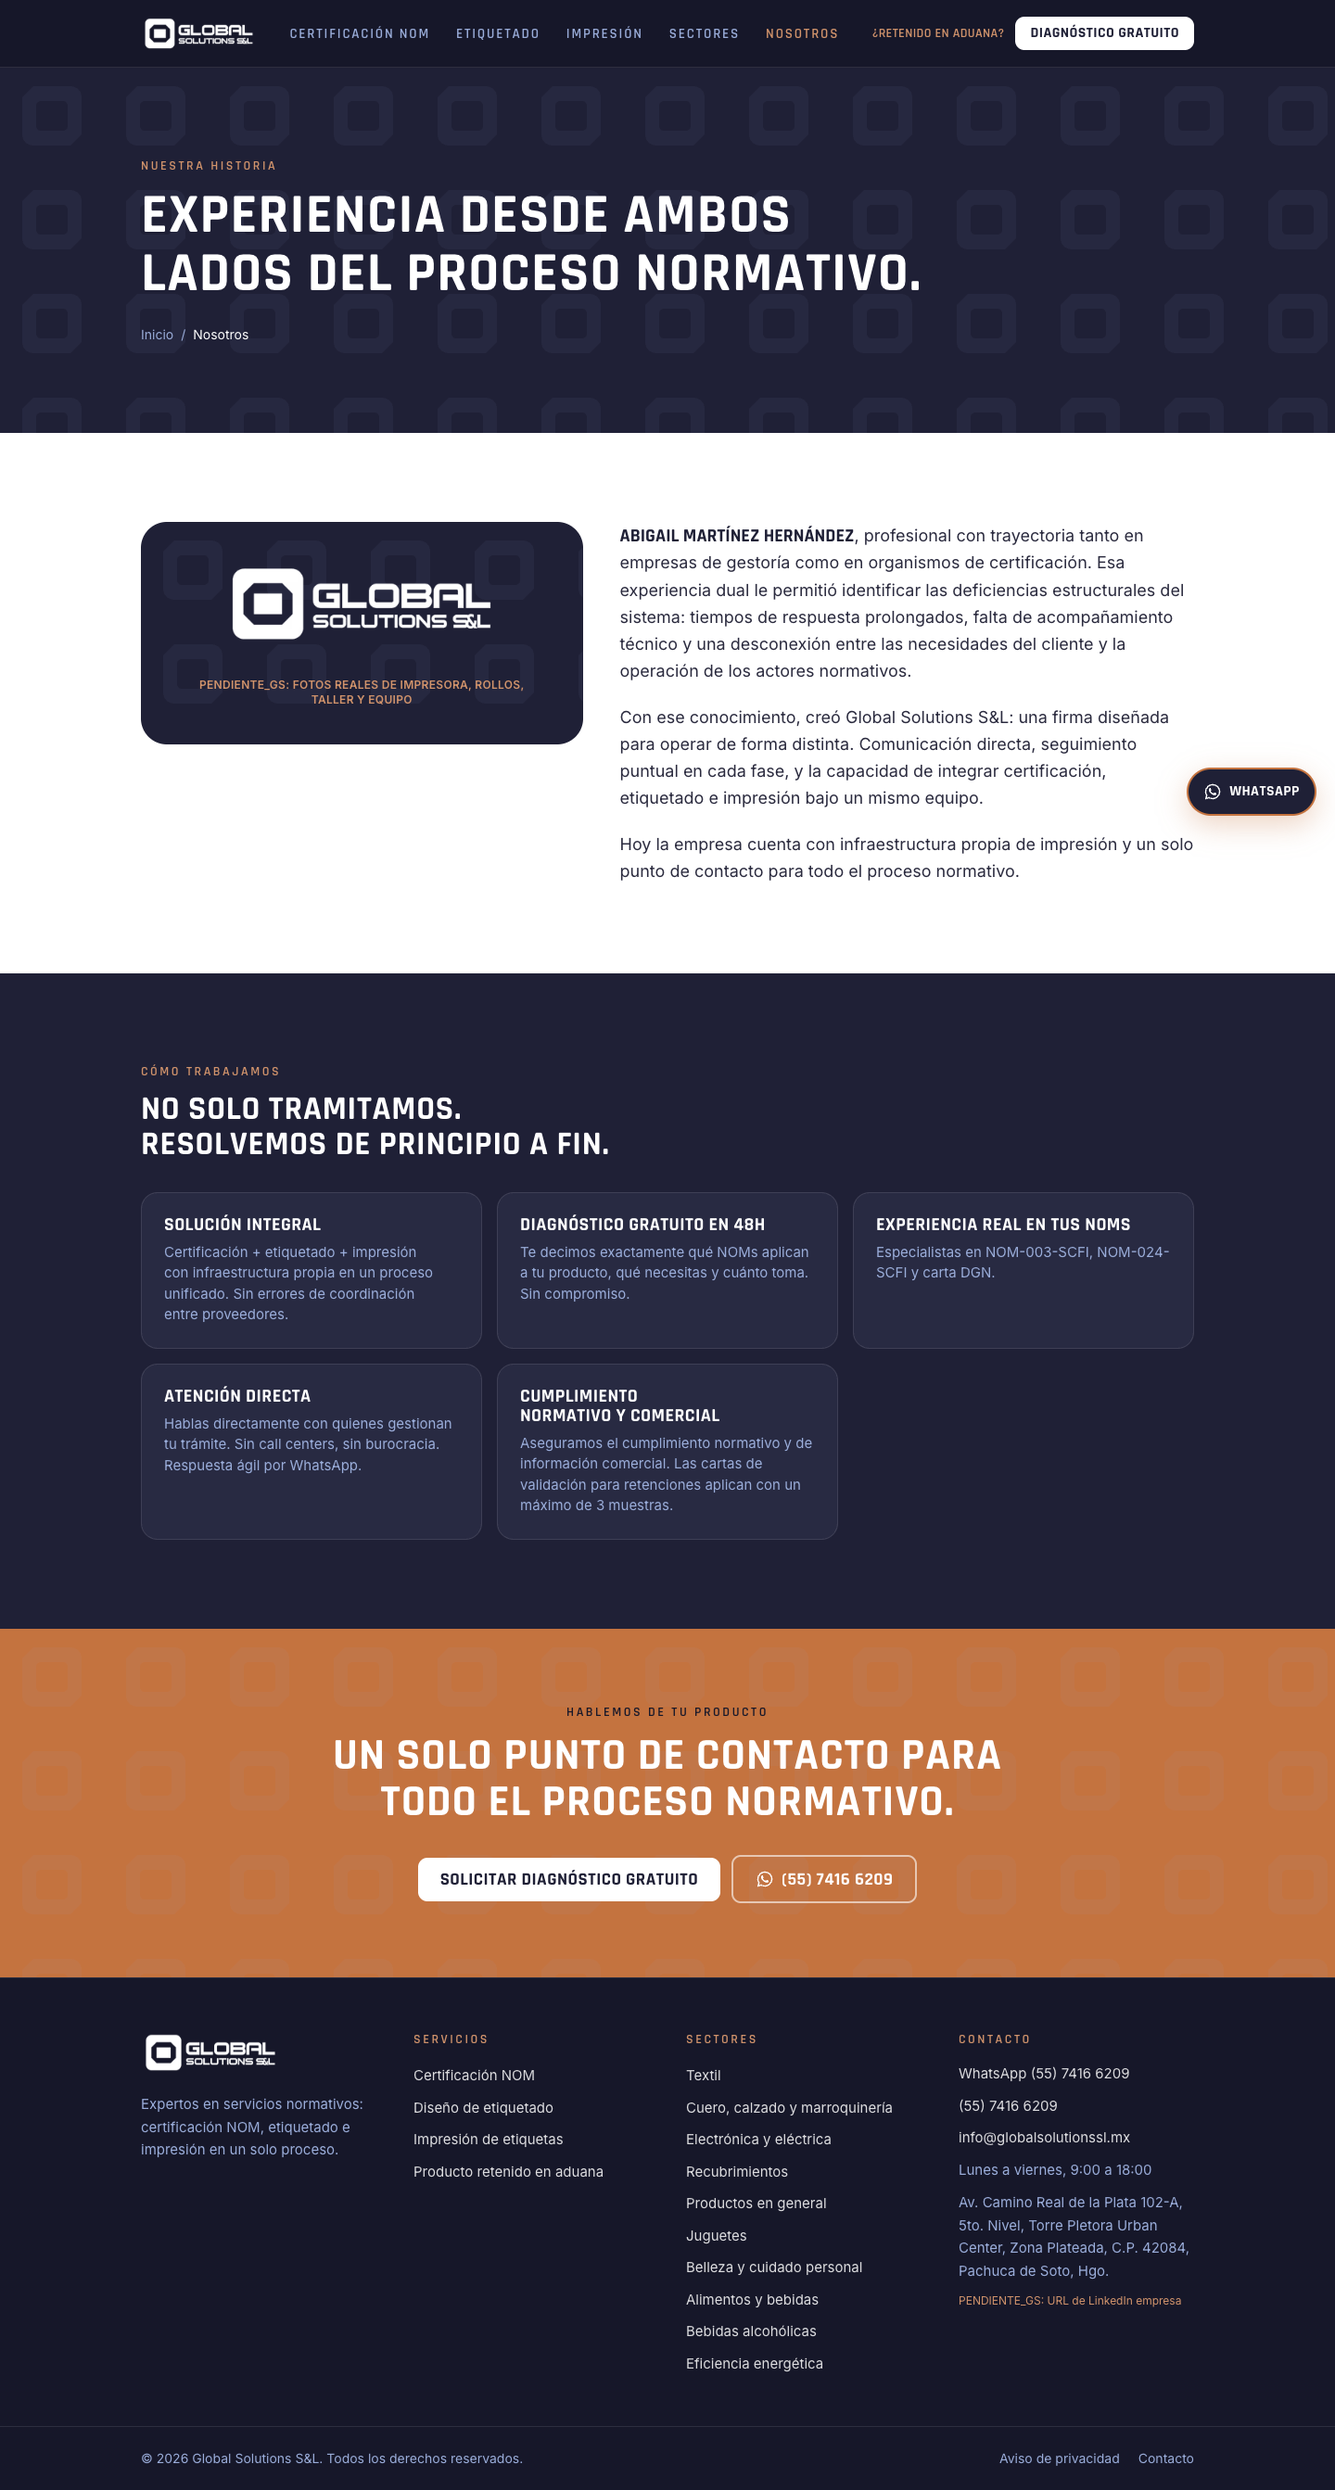
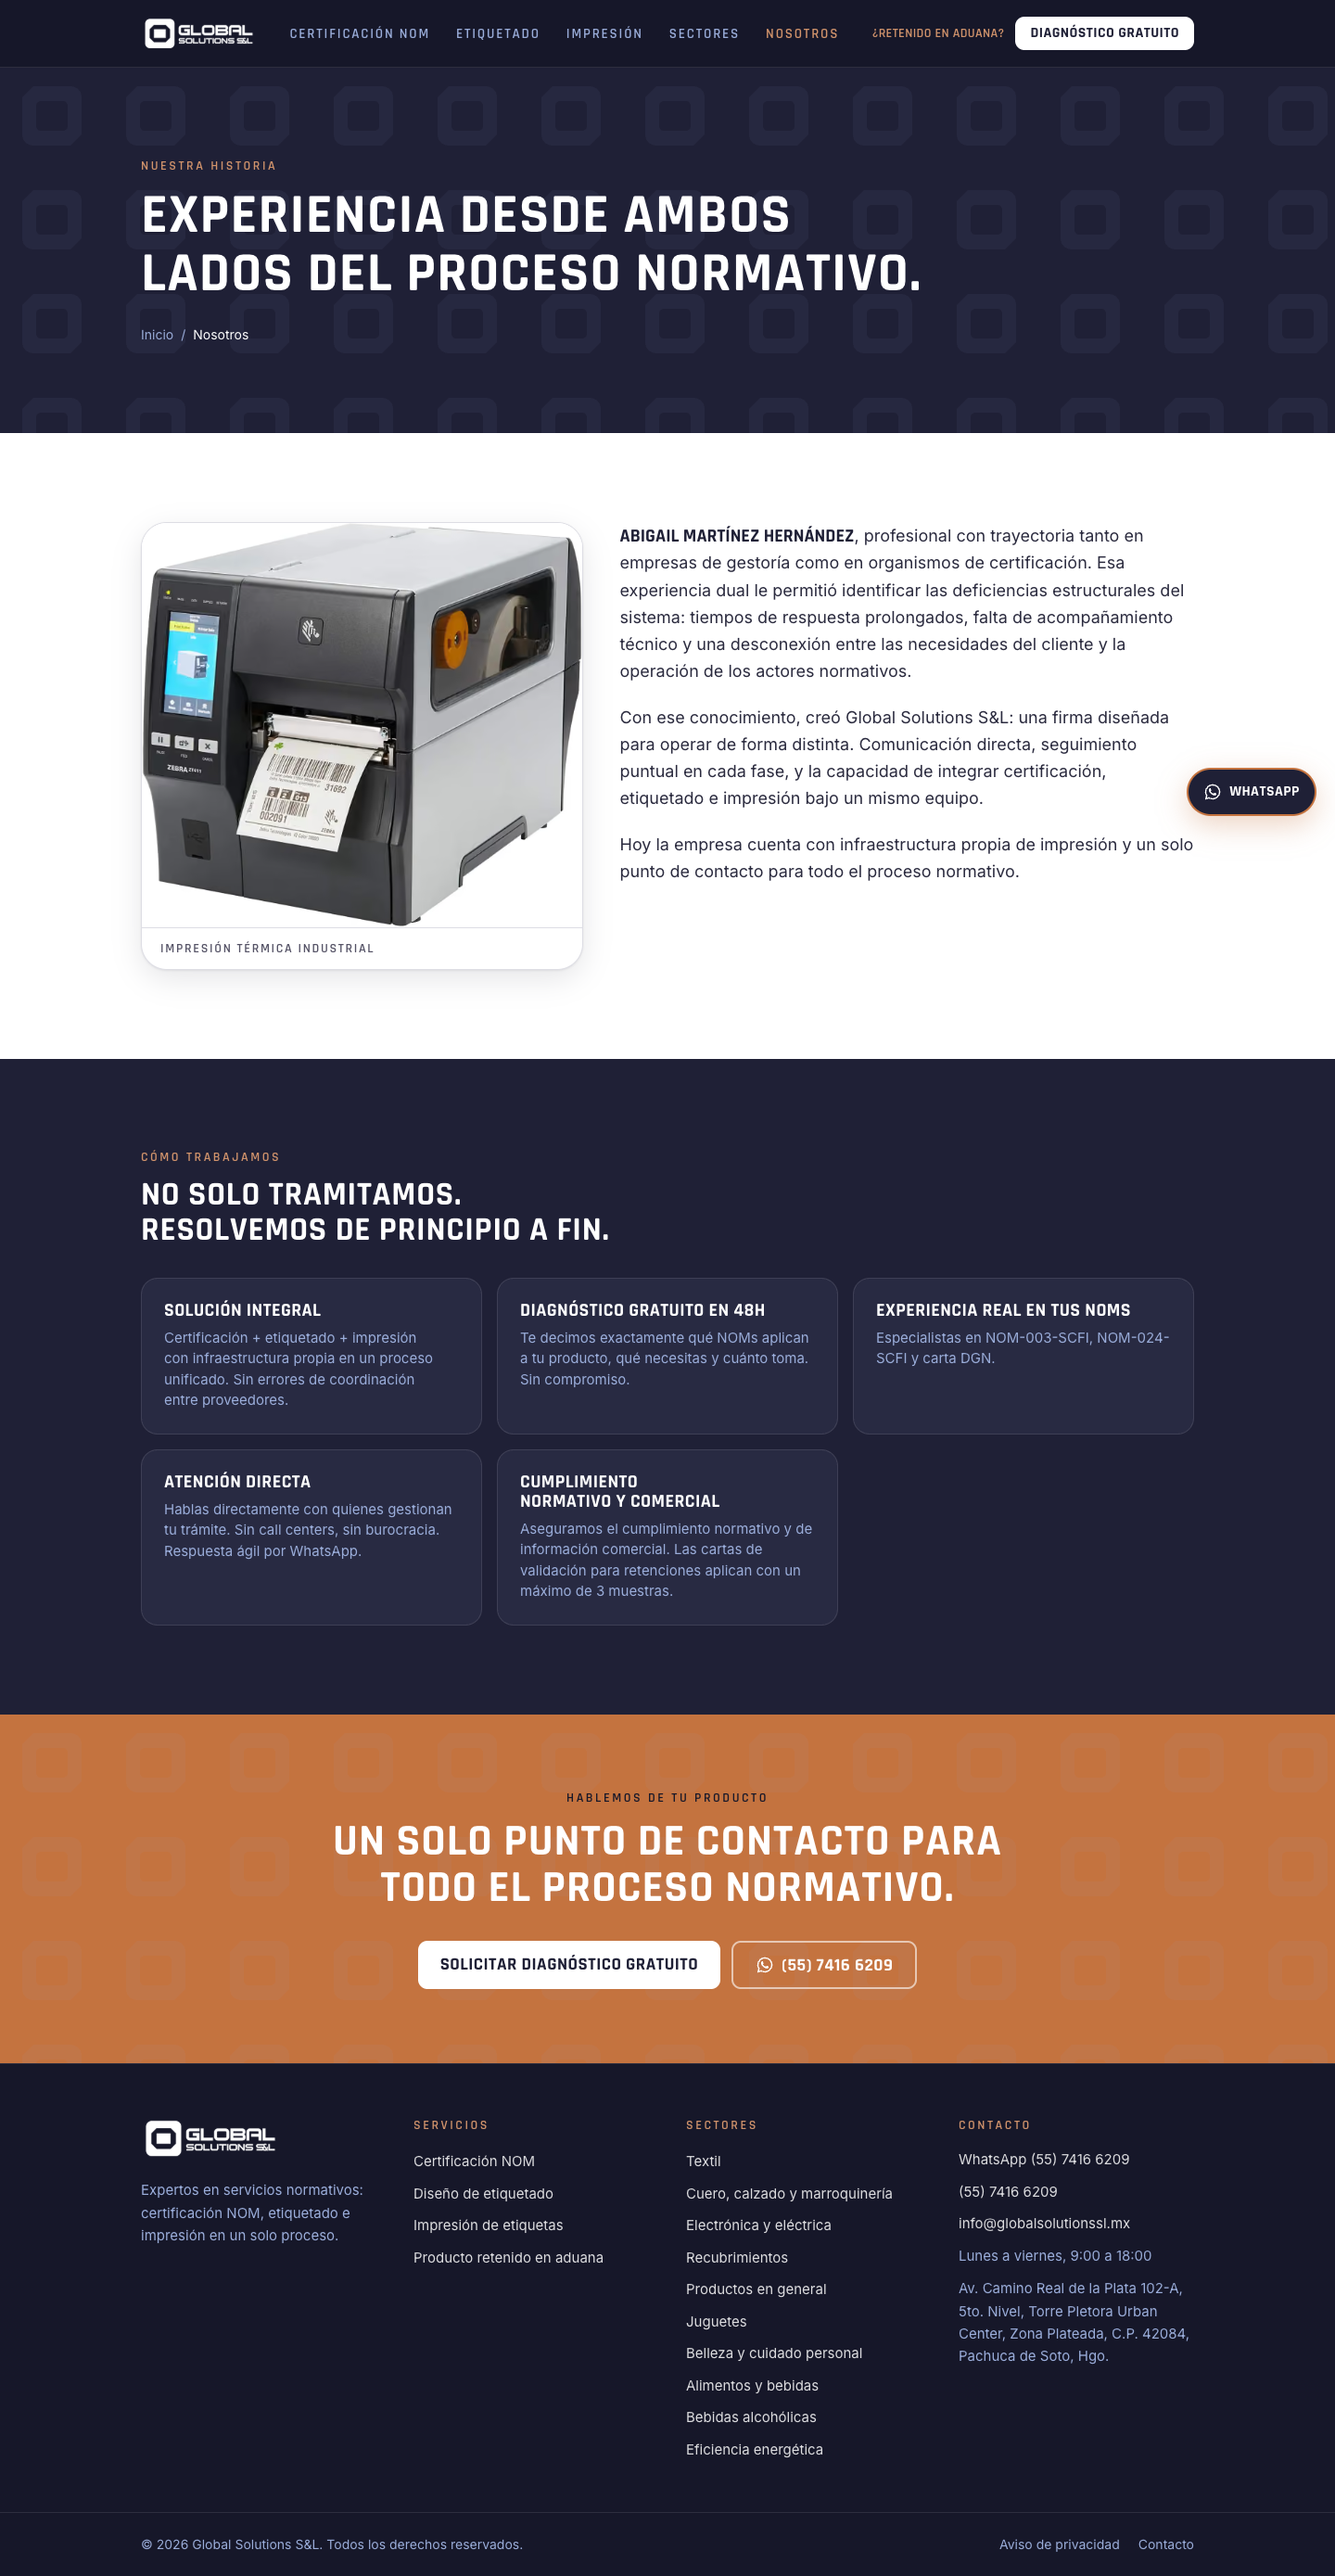
Oculta avisos de pendiente en la interfaz y agrega la impresora Zebra ZT411 en Nosotros

diff --git a/app/nosotros/page.tsx b/app/nosotros/page.tsx
@@ -3,10 +3,8 @@ import Image from "next/image";
 import { Encabezado } from "@/components/Encabezado";
 import { Migas } from "@/components/Migas";
 import { CtaCobre } from "@/components/CtaCobre";
-import { Sello } from "@/components/Sello";
 import { NOSOTROS } from "@/content/nosotros";
 import { PORQUE } from "@/content/servicios";
-import { esProduccion } from "@/lib/entorno";
 
 export const metadata: Metadata = {
   title: "Nosotros: experiencia desde ambos lados del proceso normativo",
@@ -27,15 +25,19 @@ export default function Nosotros() {
 
       <section className="gs-light gs-section">
         <div className="gs-container grid gap-10 lg:grid-cols-[1fr_1.3fr] lg:items-start">
-          <div className="relative overflow-hidden rounded-gs-xl bg-gs-navy p-10">
-            <Sello opacidad={0.1} />
-            <Image src="/logo-white.png" alt="Global Solutions S&L" width={360} height={115} className="relative mx-auto h-auto w-full max-w-[300px]" />
-            {!esProduccion && NOSOTROS.fotos.length === 0 && (
-              <p className="relative mt-8 text-center text-xs font-semibold uppercase tracking-wide text-gs-copper-lt">
-                PENDIENTE_GS: fotos reales de impresora, rollos, taller y equipo
-              </p>
-            )}
-          </div>
+          <figure className="overflow-hidden rounded-gs-xl border border-gs-gray-100 bg-white shadow-gs-card">
+            <Image
+              src={NOSOTROS.fotoPrincipal.src}
+              alt={NOSOTROS.fotoPrincipal.alt}
+              width={1500}
+              height={1400}
+              sizes="(min-width:1024px) 480px, 100vw"
+              className="h-auto w-full"
+            />
+            <figcaption className="border-t border-gs-gray-100 px-5 py-3 font-display text-sm font-semibold uppercase tracking-[0.12em] text-gs-ink-soft">
+              {NOSOTROS.fotoPrincipal.pie}
+            </figcaption>
+          </figure>
           <div className="space-y-5 text-lg leading-relaxed text-gs-ink">
             <p>
               <strong className="font-display text-xl font-bold uppercase text-gs-navy">{NOSOTROS.fundadora}</strong>, {NOSOTROS.parrafos[0]}

diff --git a/content/nosotros.ts b/content/nosotros.ts
@@ -8,6 +8,12 @@ export const NOSOTROS = {
     "Con ese conocimiento, creó Global Solutions S&L: una firma diseñada para operar de forma distinta. Comunicación directa, seguimiento puntual en cada fase, y la capacidad de integrar certificación, etiquetado e impresión bajo un mismo equipo.",
     "Hoy la empresa cuenta con infraestructura propia de impresión y un solo punto de contacto para todo el proceso normativo.",
   ],
-  // PENDIENTE_GS: fotos reales de impresora, rollos, taller y equipo. No se generan con IA.
+  /** Foto del equipo de impresión entregada por Paula (7 nov 2026). No se usa la foto de la fundadora por ahora. */
+  fotoPrincipal: {
+    src: "/img/impresora-zebra-zt411.webp",
+    alt: "Impresora industrial de etiquetas Zebra ZT411 imprimiendo un rollo de etiquetas",
+    pie: "Impresión térmica industrial",
+  },
+  // PENDIENTE_GS (solo código): fotos de rollos, taller y equipo. No se generan con IA.
   fotos: [] as { src: string; alt: string }[],
 } as const;

diff --git a/app/contacto/page.tsx b/app/contacto/page.tsx
@@ -4,7 +4,7 @@ import { Migas } from "@/components/Migas";
 import { FormDiagnostico } from "@/components/Formularios";
 import { EnlaceEmail, EnlaceTelefono, EnlaceWhatsApp, IconoWhatsApp } from "@/components/Enlaces";
 import { CONTACTO } from "@/content/contacto";
-import { esProduccion } from "@/lib/entorno";
+import { mostrarPendientes } from "@/lib/entorno";
 
 export const metadata: Metadata = {
   title: "Contacto: diagnóstico normativo gratuito en 48 h",
@@ -80,7 +80,7 @@ export default function Contacto() {
                 </a>
               </div>
             ) : (
-              !esProduccion && <p className="text-xs font-semibold uppercase text-gs-copper-tx">PENDIENTE_GS: URL de LinkedIn de empresa</p>
+              mostrarPendientes && <p className="text-xs font-semibold uppercase text-gs-copper-tx">PENDIENTE_GS: URL de LinkedIn de empresa</p>
             )}
           </aside>
         </div>

diff --git a/app/sectores/page.tsx b/app/sectores/page.tsx
@@ -5,7 +5,7 @@ import { Migas } from "@/components/Migas";
 import { SectorCard } from "@/components/SectorCard";
 import { CtaCobre } from "@/components/CtaCobre";
 import { SECTORES_PENDIENTES, SECTORES_VISIBLES } from "@/content/sectores";
-import { esProduccion } from "@/lib/entorno";
+import { mostrarPendientes } from "@/lib/entorno";
 
 export const metadata: Metadata = {
   title: "Sectores: catálogo de etiquetado NOM por industria",
@@ -46,7 +46,7 @@ export default function Sectores() {
             </p>
           )}
 
-          {!esProduccion && (
+          {mostrarPendientes && (
             <div className="mt-12 rounded-gs-lg border border-gs-copper/40 bg-gs-navy p-6">
               <p className="gs-eyebrow text-gs-copper-lt">PENDIENTE_GS · Sectores por confirmar (solo en preview)</p>
               <p className="mt-2 text-sm text-gs-mist">

diff --git a/components/Footer.tsx b/components/Footer.tsx
@@ -4,7 +4,7 @@ import { CONTACTO } from "@/content/contacto";
 import { SERVICIOS } from "@/content/servicios";
 import { SECTORES_VISIBLES } from "@/content/sectores";
 import { EnlaceEmail, EnlaceTelefono, EnlaceWhatsApp } from "./Enlaces";
-import { esProduccion } from "@/lib/entorno";
+import { mostrarPendientes } from "@/lib/entorno";
 
 export function Footer() {
   return (
@@ -78,7 +78,7 @@ export function Footer() {
                 </a>
               </li>
             ) : (
-              !esProduccion && <li className="text-xs text-gs-copper-lt">PENDIENTE_GS: URL de LinkedIn empresa</li>
+              mostrarPendientes && <li className="text-xs text-gs-copper-lt">PENDIENTE_GS: URL de LinkedIn empresa</li>
             )}
           </ul>
         </div>

diff --git a/components/Cifras.tsx b/components/Cifras.tsx
@@ -1,5 +1,5 @@
 import { CIFRAS } from "@/content/cifras";
-import { esProduccion } from "@/lib/entorno";
+import { mostrarPendientes } from "@/lib/entorno";
 import { Contador } from "./Contador";
 
 /**
@@ -11,7 +11,7 @@ export function Cifras({ ids }: { ids?: string[] }) {
   if (lista.length === 0) return null;
   return (
     <div className="relative">
-      {!esProduccion && lista.some((c) => !c.validadoGS) && (
+      {mostrarPendientes && lista.some((c) => !c.validadoGS) && (
         <p className="mb-3 text-center text-xs font-semibold uppercase tracking-wide text-gs-copper-lt">
           Cifras pendientes de validación por GS (solo visible en preview)
         </p>

diff --git a/components/FranjaPendiente.tsx b/components/FranjaPendiente.tsx
@@ -1,8 +1,8 @@
-import { esProduccion } from "@/lib/entorno";
+import { mostrarPendientes } from "@/lib/entorno";
 
 /** Franja de "pendiente de validación". Solo en preview. */
 export function FranjaPendiente({ texto }: { texto: string }) {
-  if (esProduccion) return null;
+  if (!mostrarPendientes) return null;
   return (
     <div role="status" className="border-y border-gs-copper/50 bg-gs-copper/15 text-center">
       <p className="gs-container py-2 font-display text-sm font-semibold uppercase tracking-wide text-gs-copper-lt">

diff --git a/lib/entorno.ts b/lib/entorno.ts
@@ -3,5 +3,8 @@
  * En producción se ocultan los avisos PENDIENTE_GS y las franjas de "pendiente de validación".
  * (Desde el 7 nov 2026 los sectores y cifras sí se publican sin validar, por decisión de Paula.)
  */
+/** Mostrar en pantalla los avisos PENDIENTE_GS y franjas de validación. Apagado por decisión de Paula (7 nov 2026). */
+export const mostrarPendientes = process.env.GS_MOSTRAR_PENDIENTES === "1";
+
 export const esProduccion =
   process.env.VERCEL_ENV === "production" || process.env.GS_ENTORNO === "produccion";
